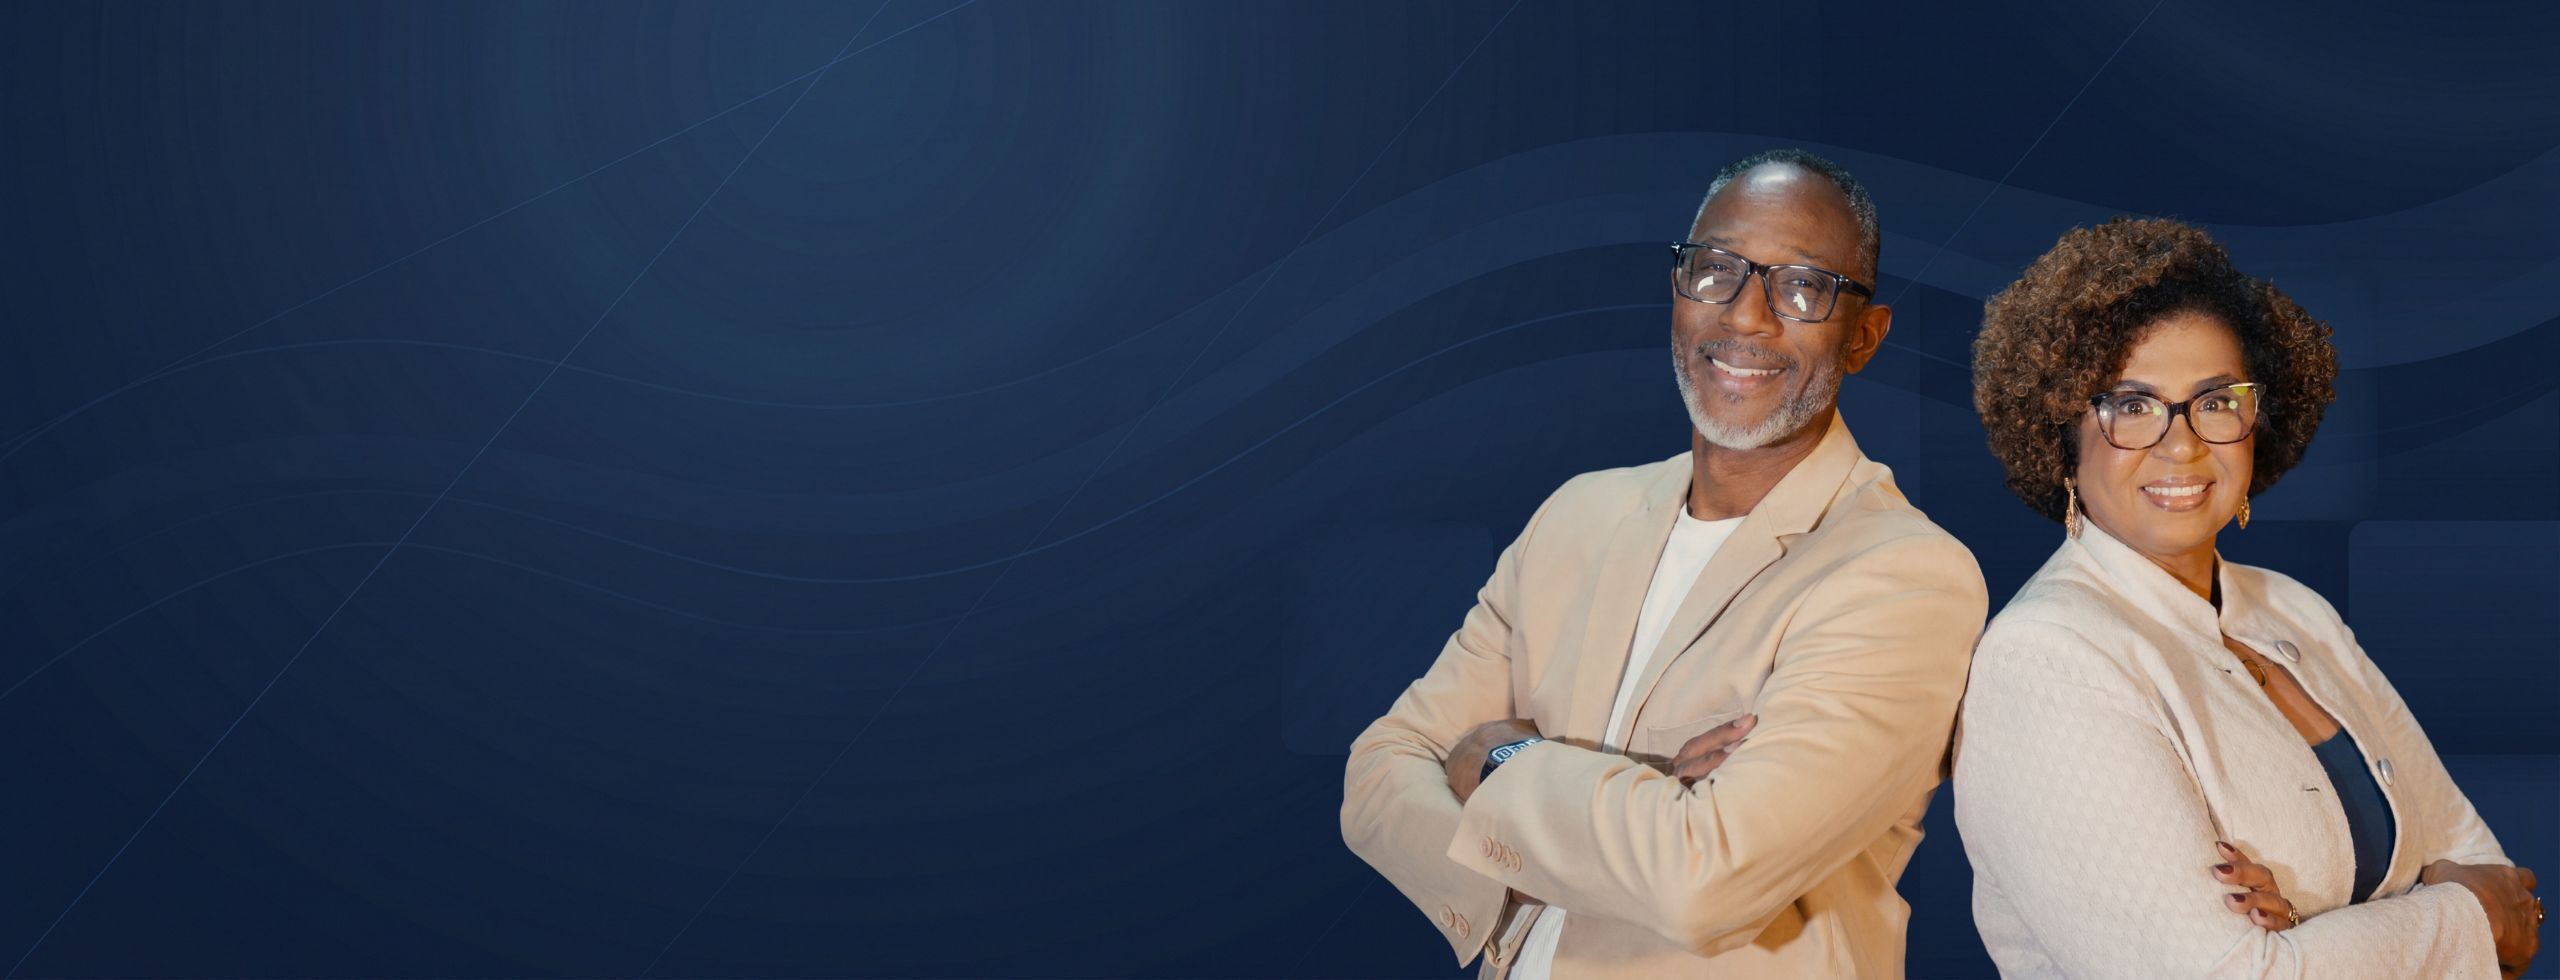
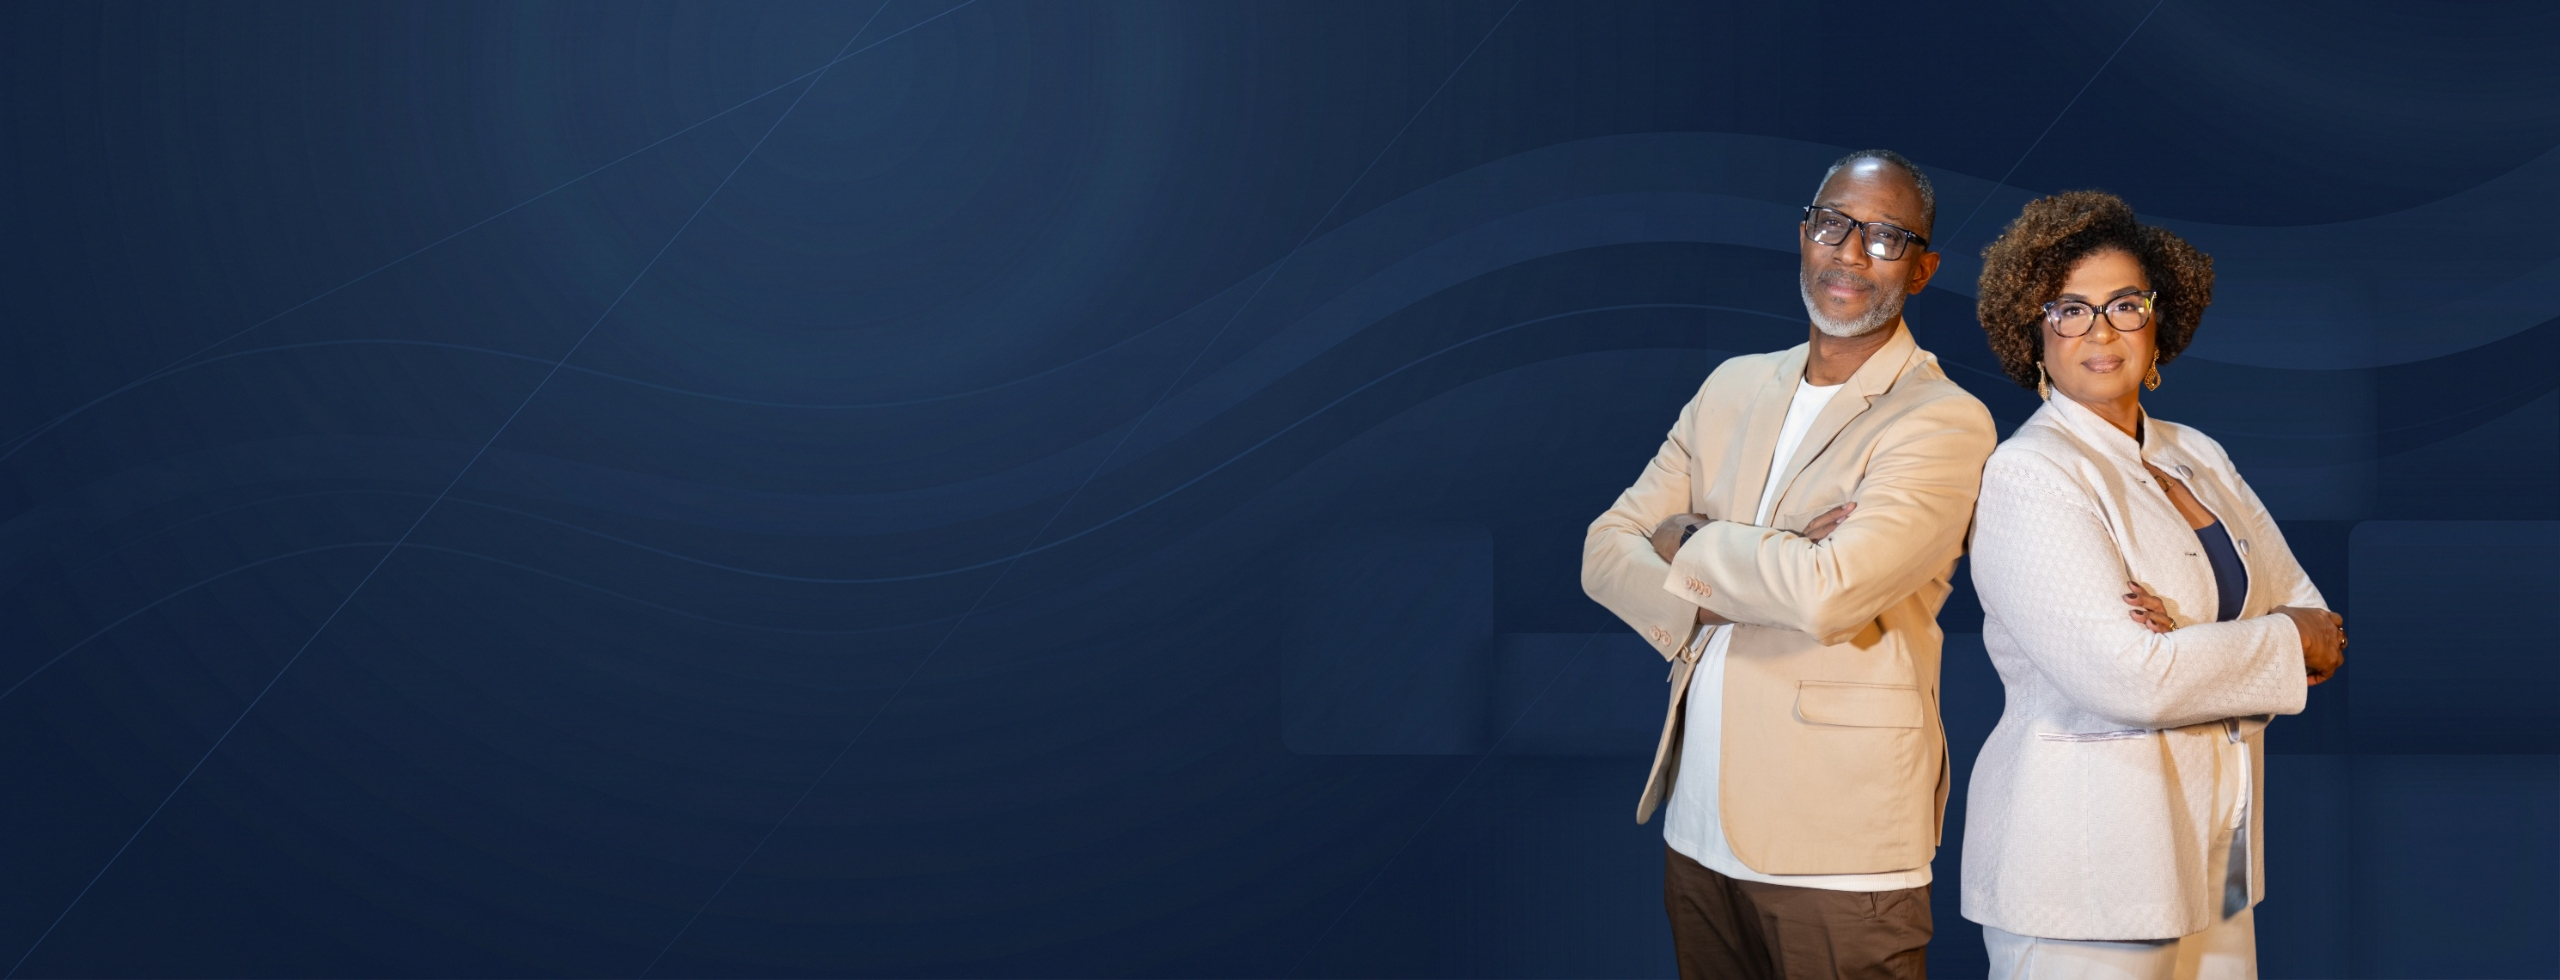
teste

Changed region(s): [[0.5, 0.1531, 1.0, 1.0]]

diff --git a/BKP2/script.js b/BKP2/script.js
@@ -1,0 +1,24 @@
+// Scripts de Interação da Landing Page
+
+document.addEventListener('DOMContentLoaded', () => {
+    // Smooth scrolling for anchor links
+    document.querySelectorAll('a[href^="#"]').forEach(anchor => {
+        anchor.addEventListener('click', function (e) {
+            e.preventDefault();
+            
+            const targetId = this.getAttribute('href');
+            if (targetId === '#') return;
+            
+            const targetElement = document.querySelector(targetId);
+            
+            if (targetElement) {
+                targetElement.scrollIntoView({
+                    behavior: 'smooth',
+                    block: 'start'
+                });
+            }
+        });
+    });
+
+    console.log('Mapa da Convivência - Scripts carregados com sucesso.');
+});